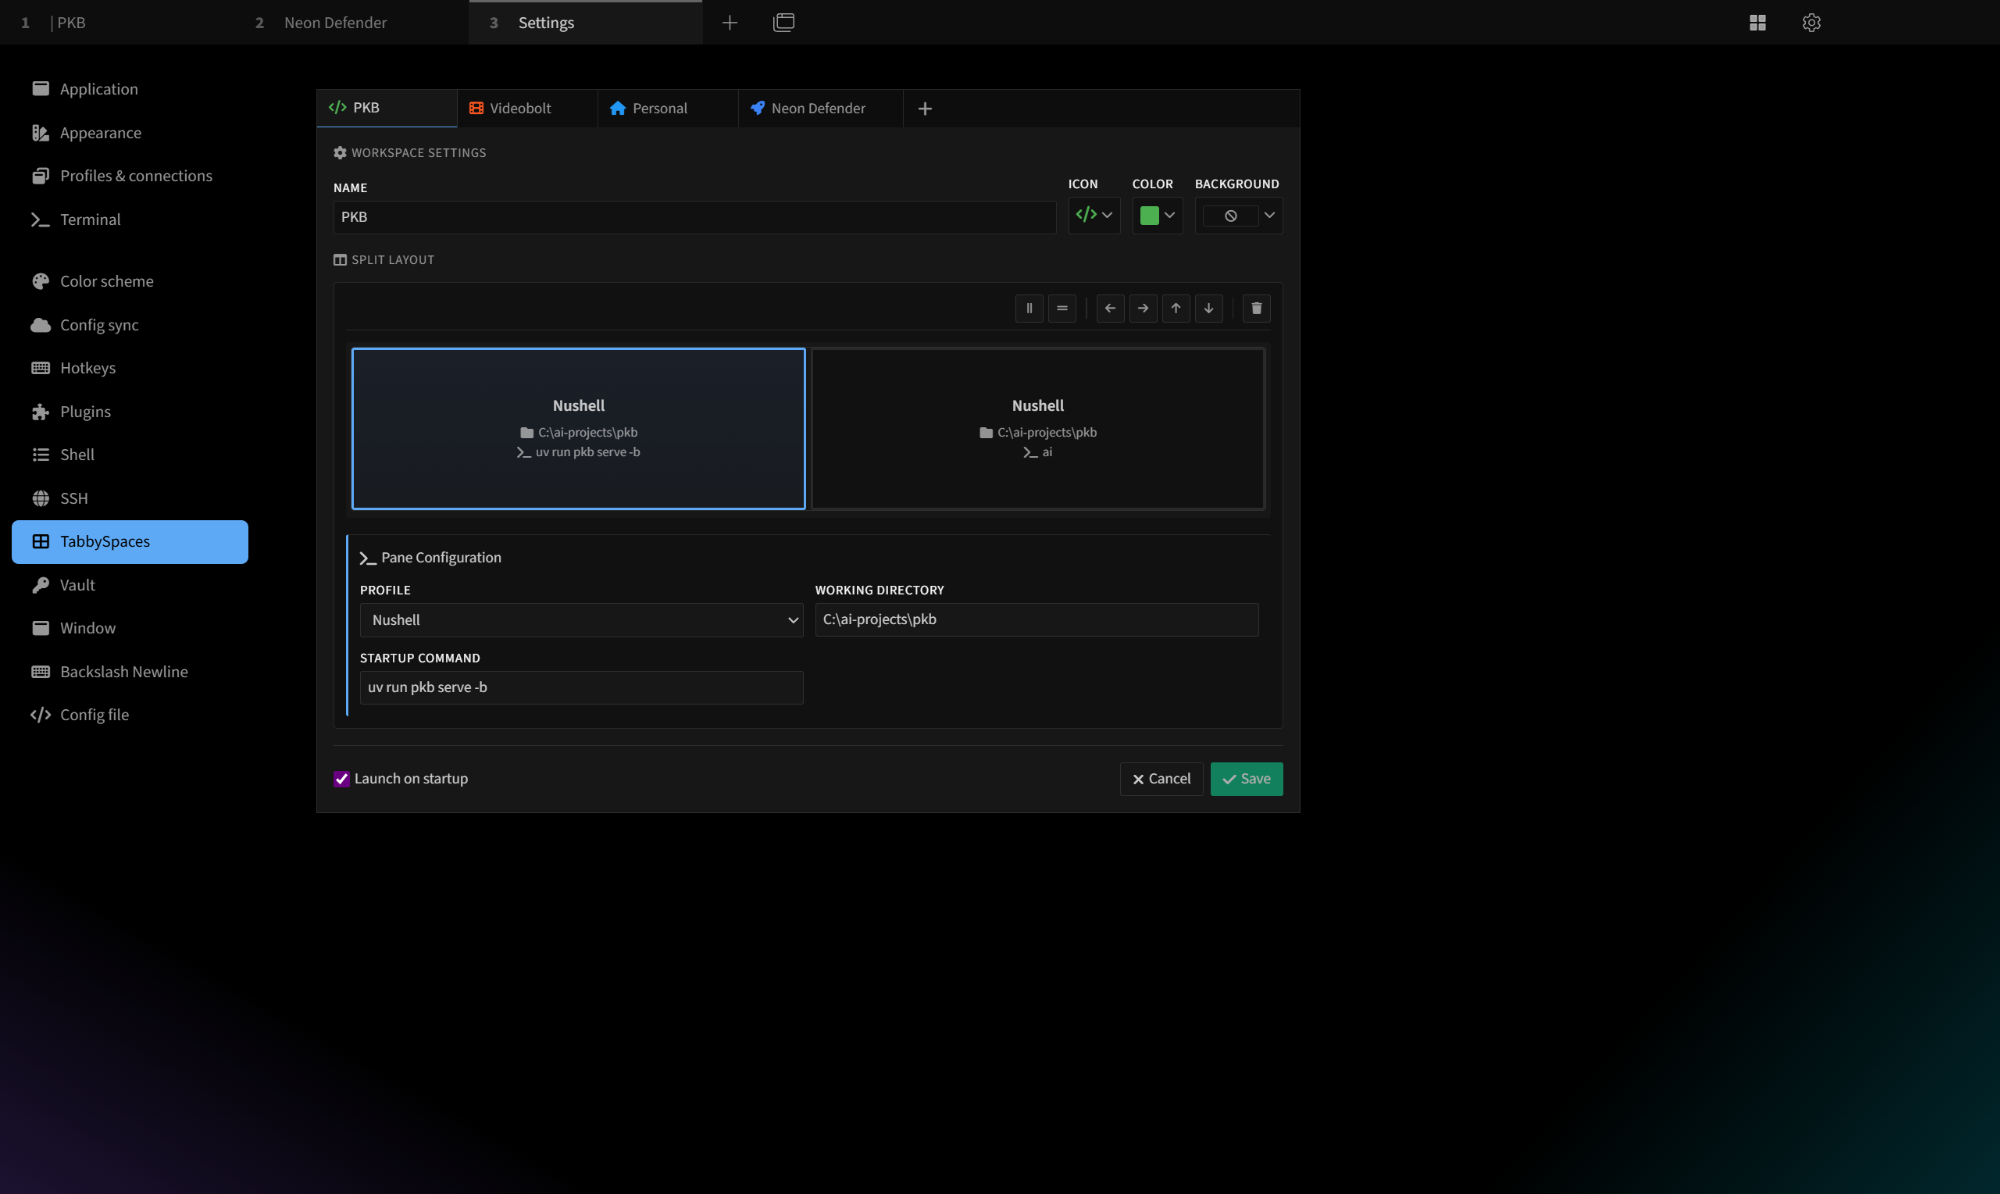
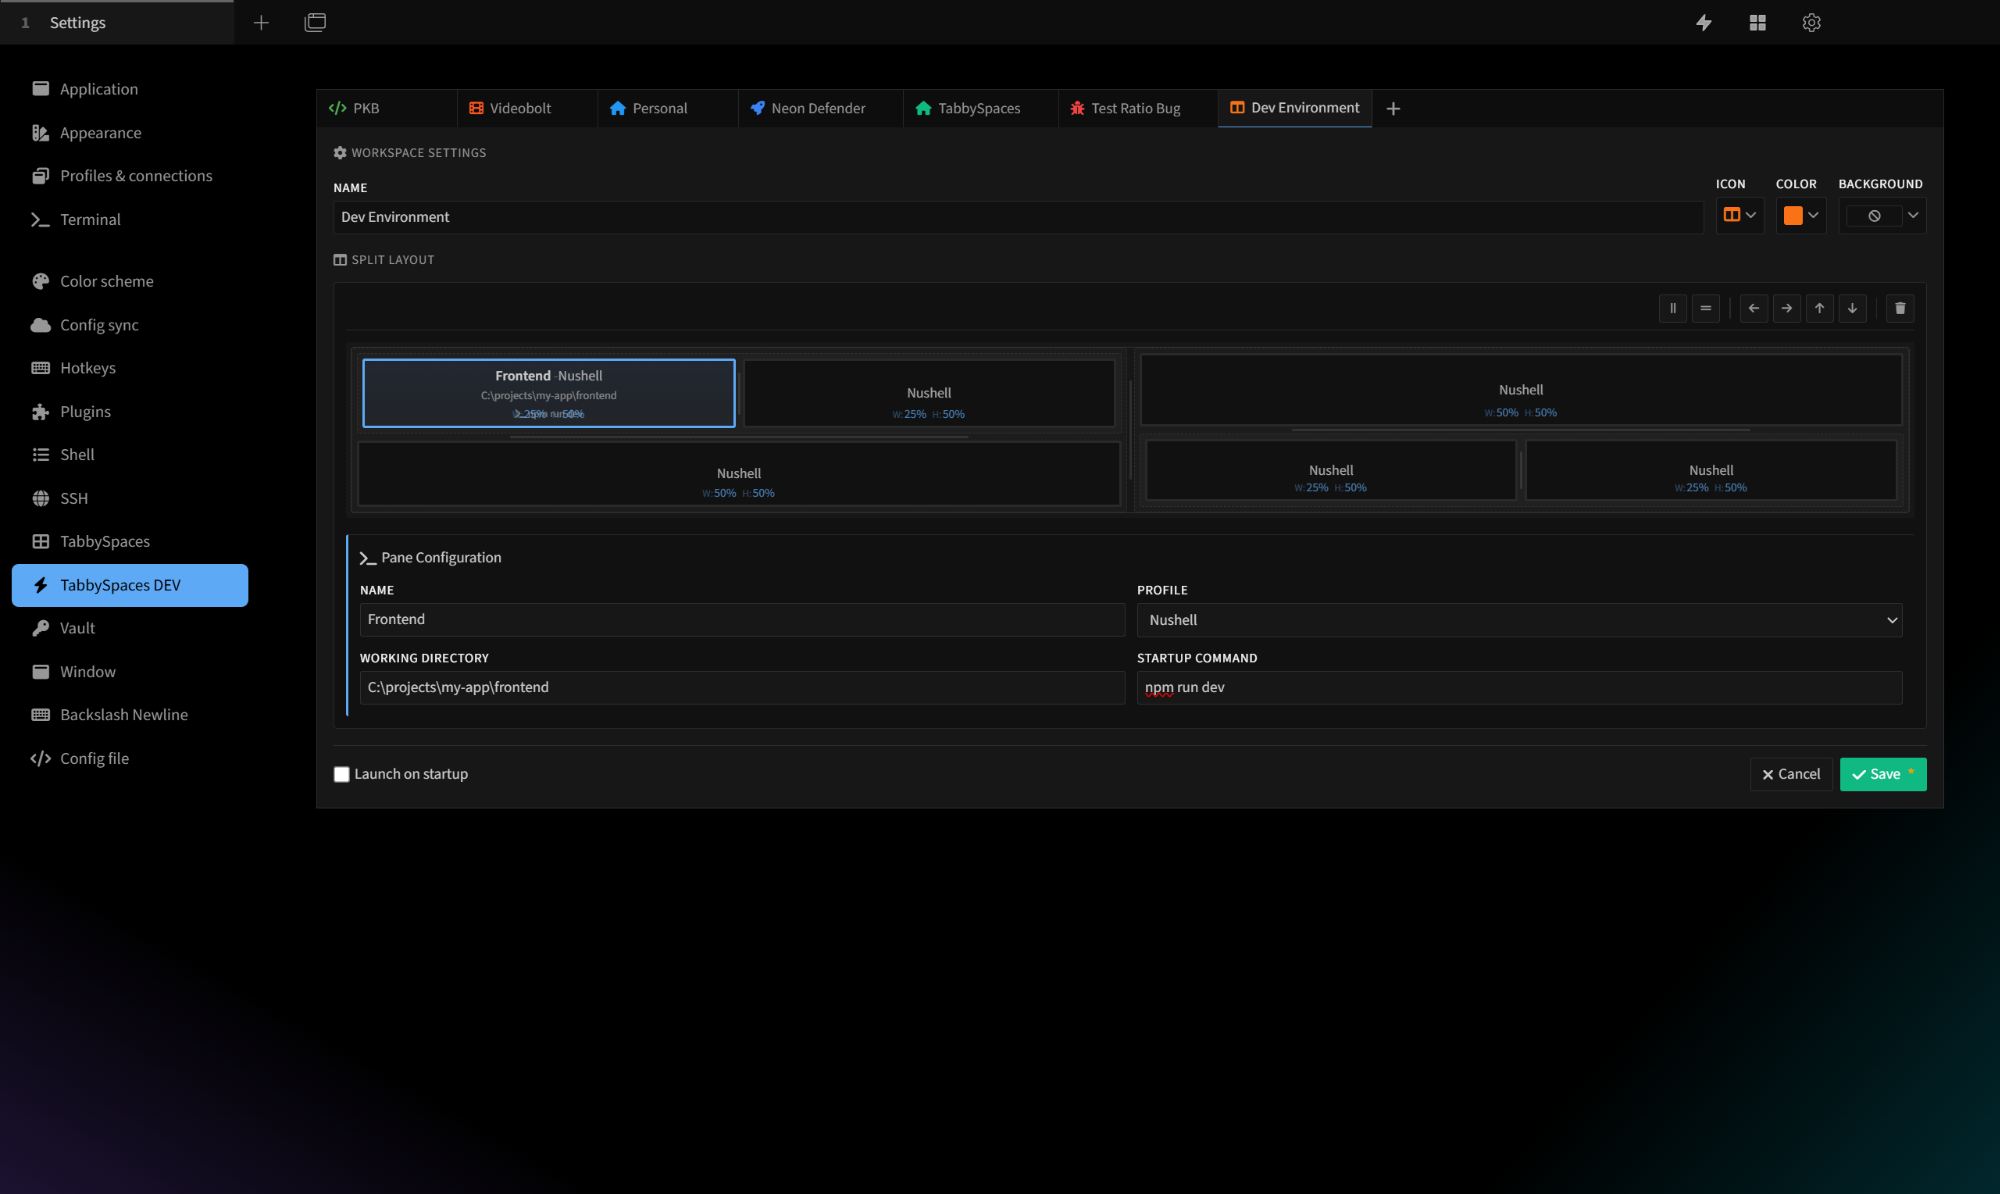
Update README screenshots with new nested layout examples

diff --git a/README.md b/README.md
@@ -44,6 +44,8 @@ Restart Tabby after installation.
 4. **Configure panes** - Click a pane (or use its context menu) to set profile, cwd, startup command
 5. **Save and launch** - Save changes, then click "Open" or use the toolbar dropdown
 
+![Split Layout Editor](screenshots/workspace-editor.png)
+
 ## Roadmap
 
 - Hotkey support for quick workspace switching
